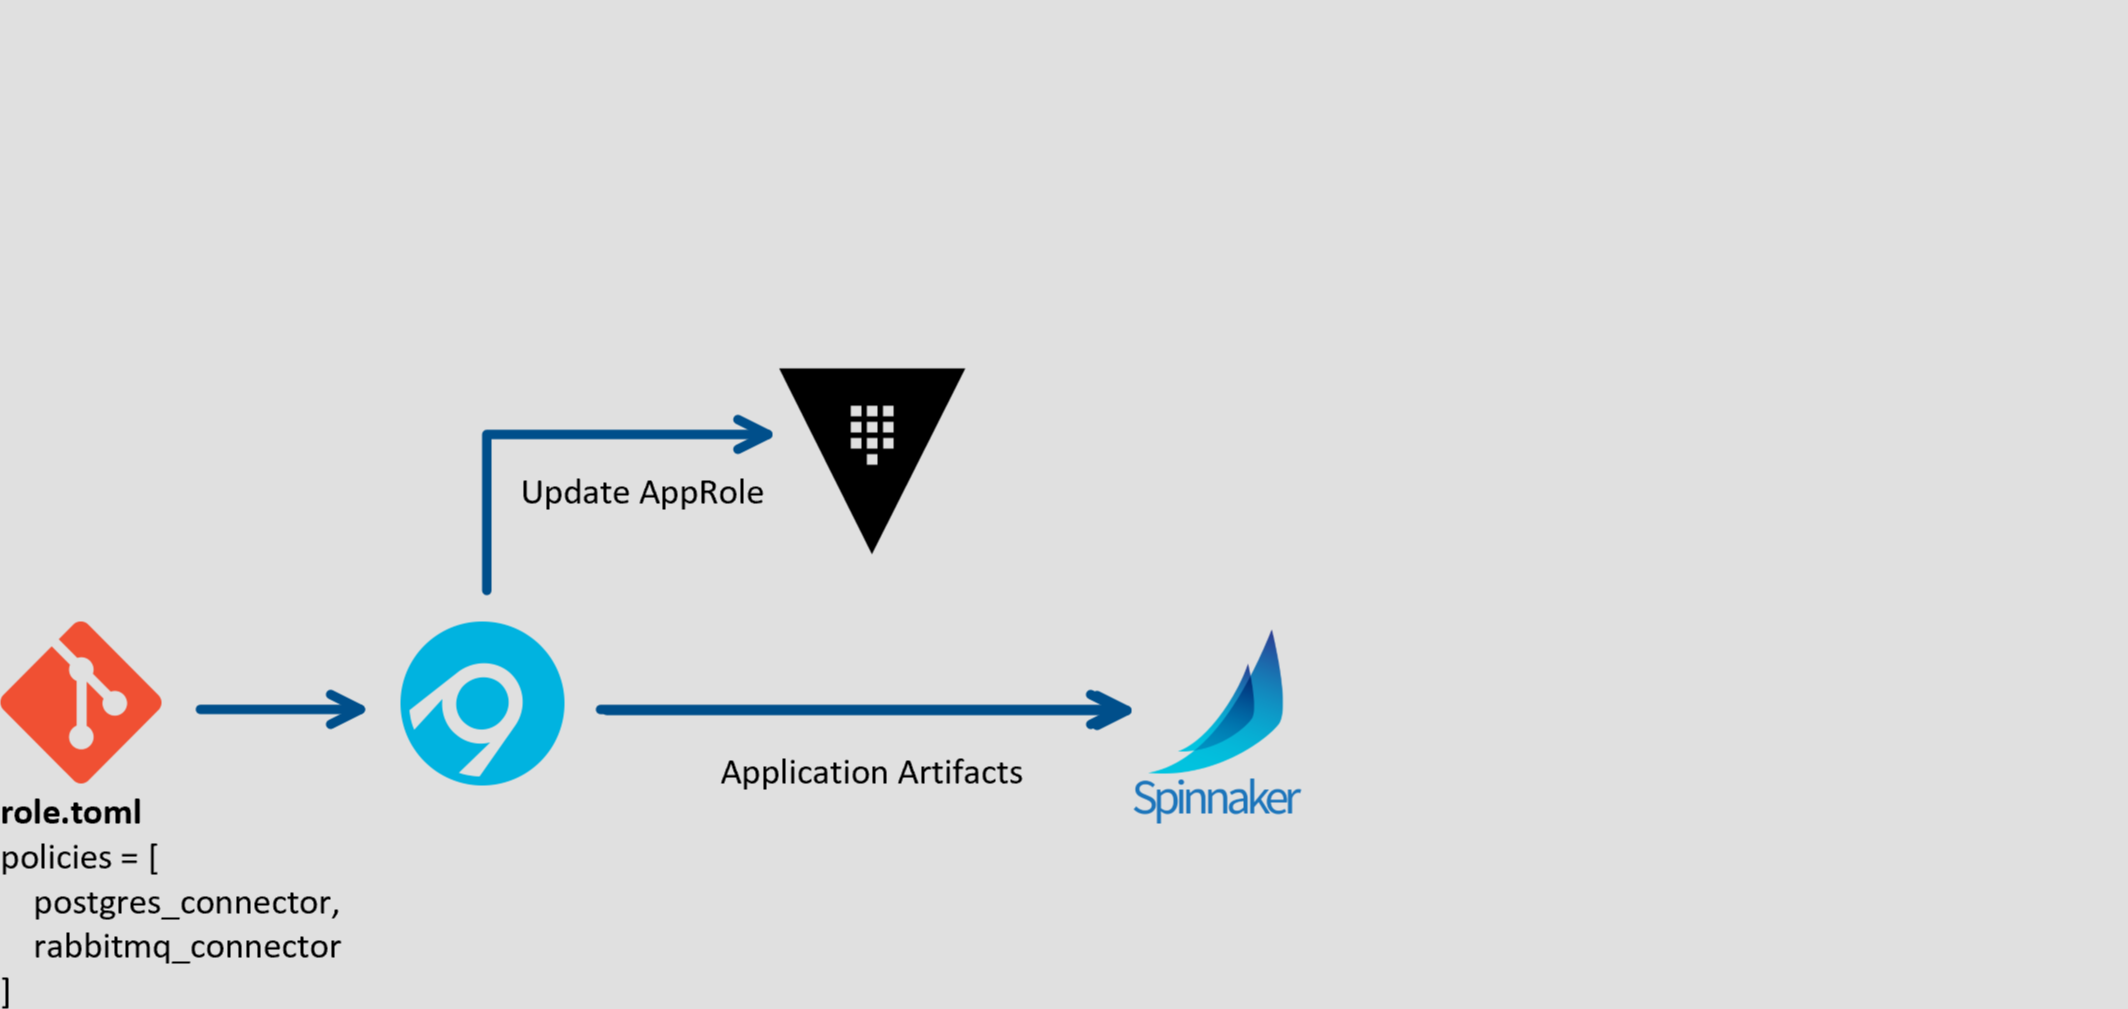
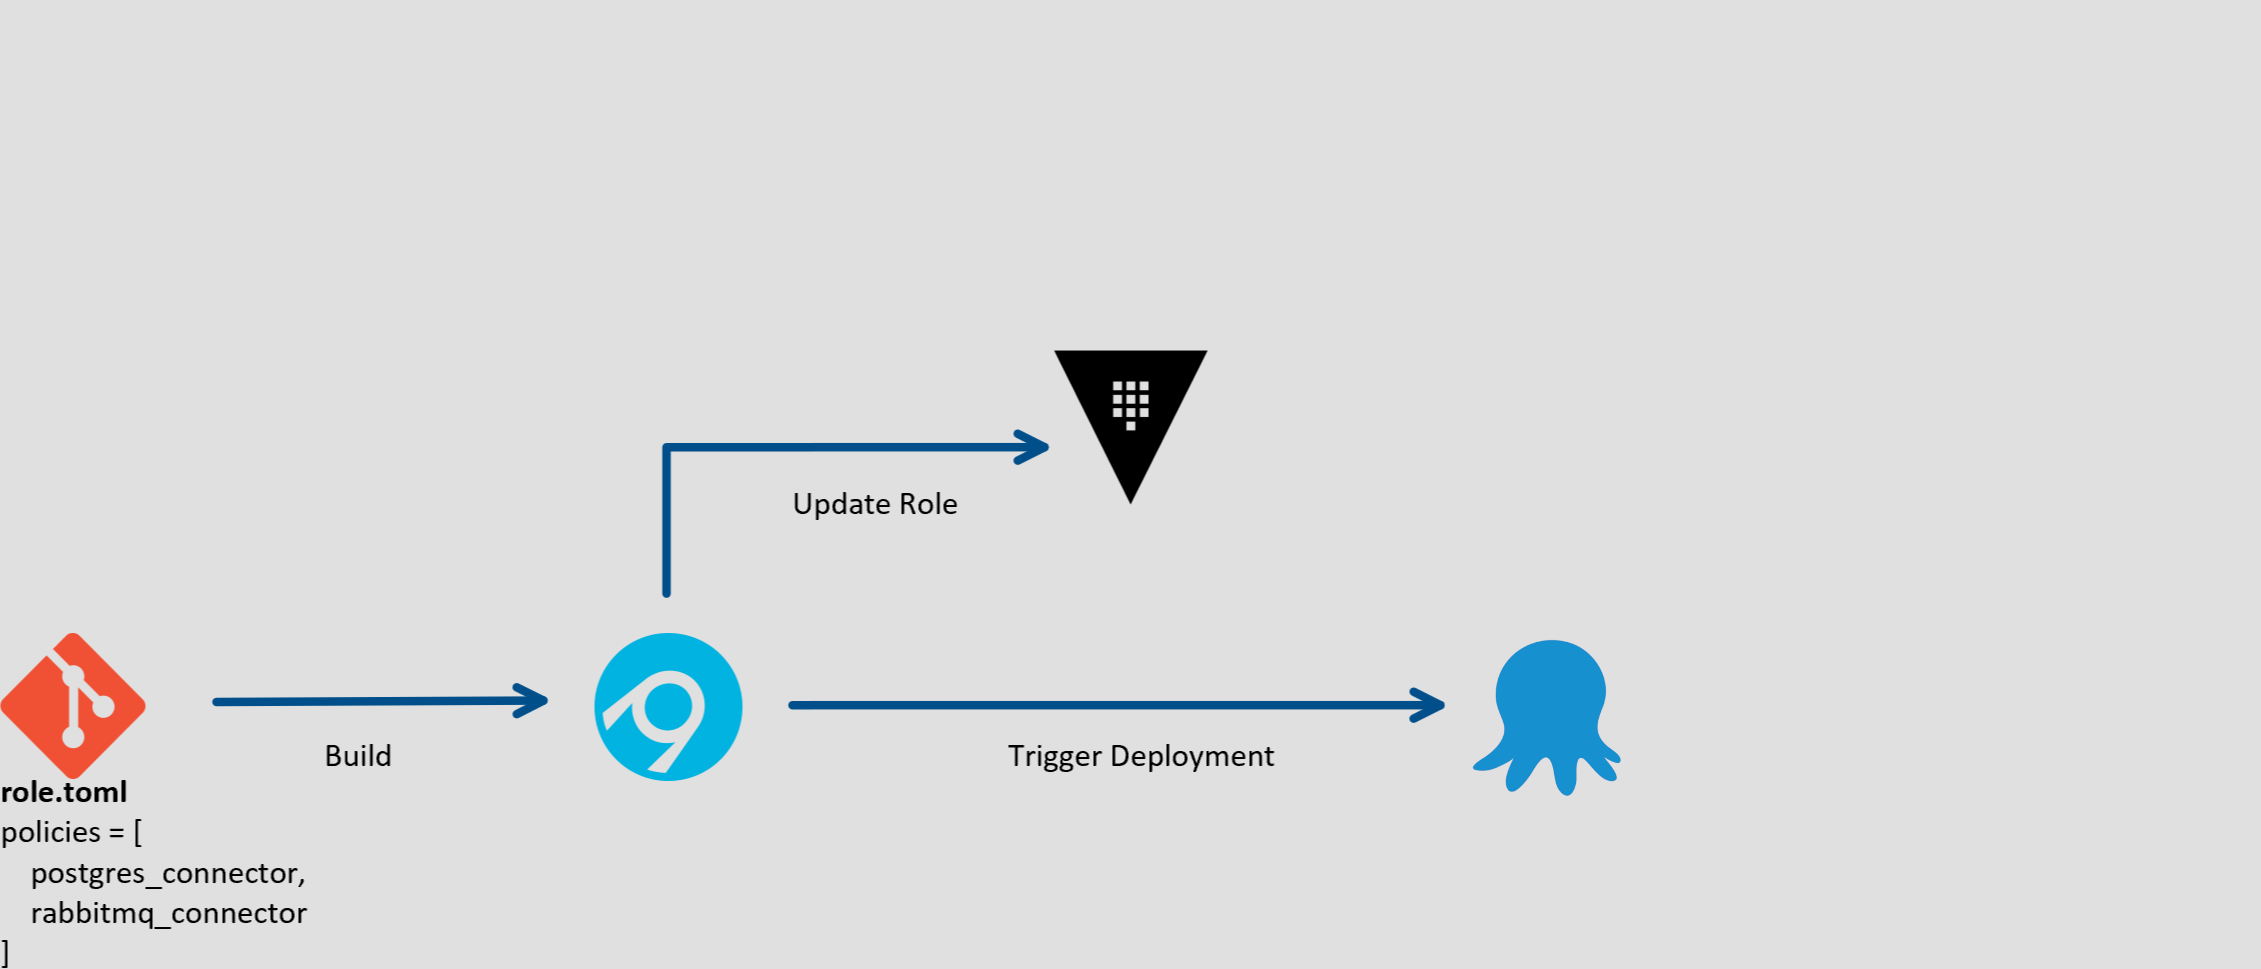
vault: improve deployment diagrams

Changed region(s): [[0.0, 0.6192, 0.7133, 0.9598], [0.2171, 0.3406, 0.5273, 0.6192], [0.1241, 0.774, 0.1861, 0.805]]

diff --git a/content/vault/slides.md b/content/vault/slides.md
@@ -115,6 +115,7 @@ Note:
 * `vault read database/creds/writer`
 * show expiry in dbeaver
 * DirectAccess app
+* pit of success!
 
 
 
@@ -172,19 +173,12 @@ Note:
 ![deployment tool fetches secretid from vault](content/vault/img/approles-3.png) <!-- .element: class="no-border" -->
 <!-- .slide: data-transition="fade" -->
 Note:
-* spinnaker can only fetch secretids
+* octopus can only fetch secretids
 * secretid in config file, only readable by app/process
 
 
 
-![deployment tool embeds secretid in app and deploys to host](content/vault/img/approles-4.png) <!-- .element: class="no-border" -->
-<!-- .slide: data-transition="fade" -->
-Note:
-* secretid in config file, only readable by app/process
-
-
-
-![terraform fetches roleid from vault and writes to host environment variables](content/vault/img/approles-5.png) <!-- .element: class="no-border" -->
+![terraform fetches roleid from vault and writes to host environment variables](content/vault/img/approles-4.png) <!-- .element: class="no-border" -->
 <!-- .slide: data-transition="fade" -->
 Note:
 * terraform can only fetch roleids
@@ -195,11 +189,18 @@ Note:
 
 
 ![instead of terraform, roleid is read by dev, and embedded in in sourcecode](content/vault/img/approles-embedded.png) <!-- .element: class="no-border" -->
-<!-- .slide: data-transition="none-in slide-out" -->
+<!-- .slide: data-transition="fade" -->
 Note:
 * roleid embedded by dev in binary
-* secretid in config by spinnaker as before
+* secretid in config by octopus as before
 * slightly less secure
+
+
+
+![instead of terraform and octopus, nomad is used](content/vault/img/approles-nomad.png) <!-- .element: class="no-border" -->
+<!-- .slide: data-transition="fade-in slide-out" -->
+Note:
+* nomad fetches both
 
 
 
@@ -208,7 +209,6 @@ Note:
 * ./approles.sh
 * update roleid and secretid
 * AppRoleAccess demo
-* pit of success!
 
 
 
